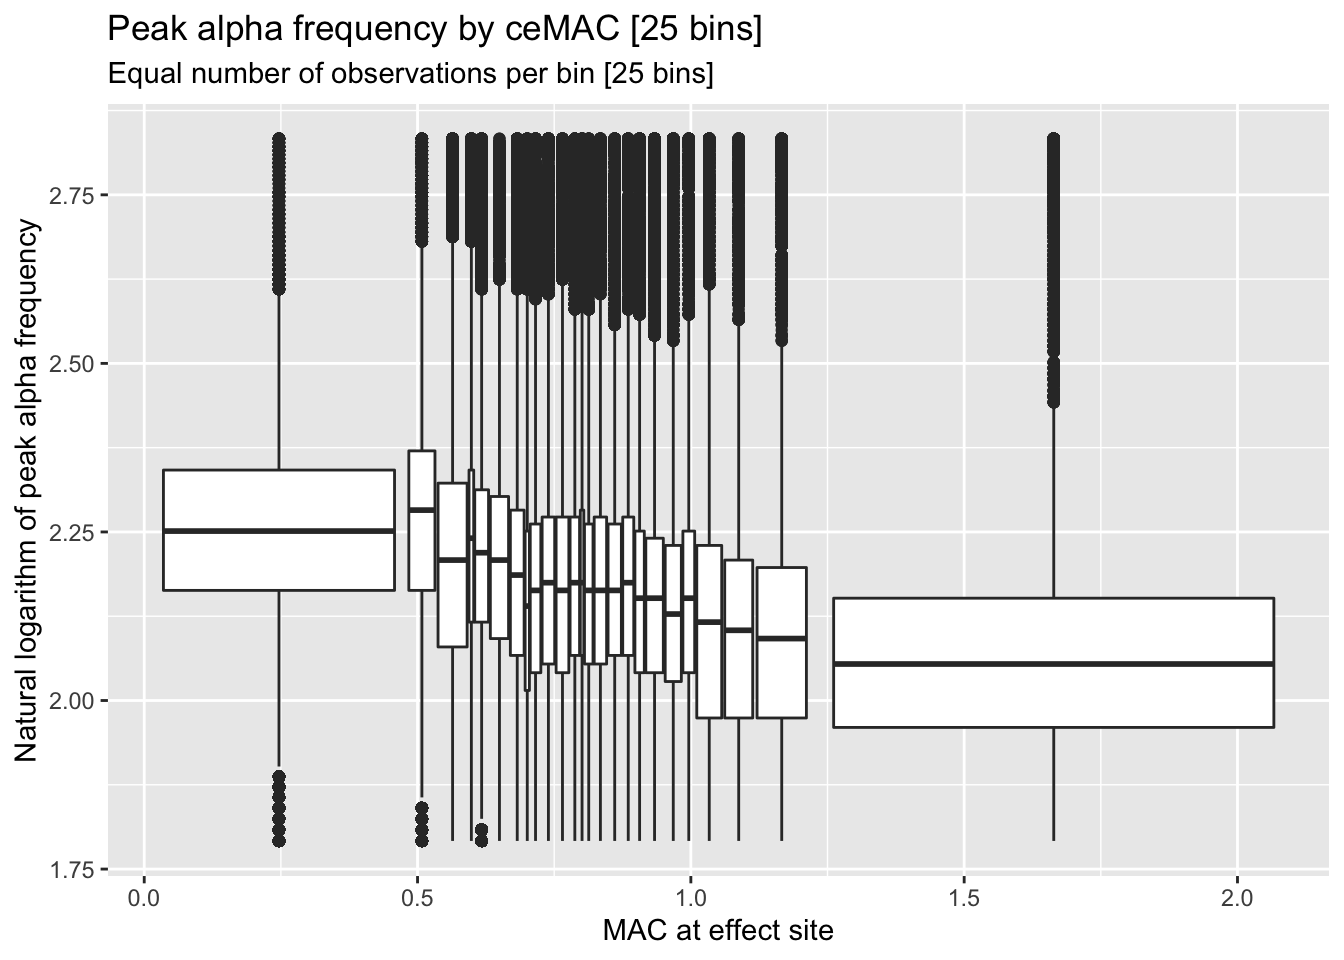
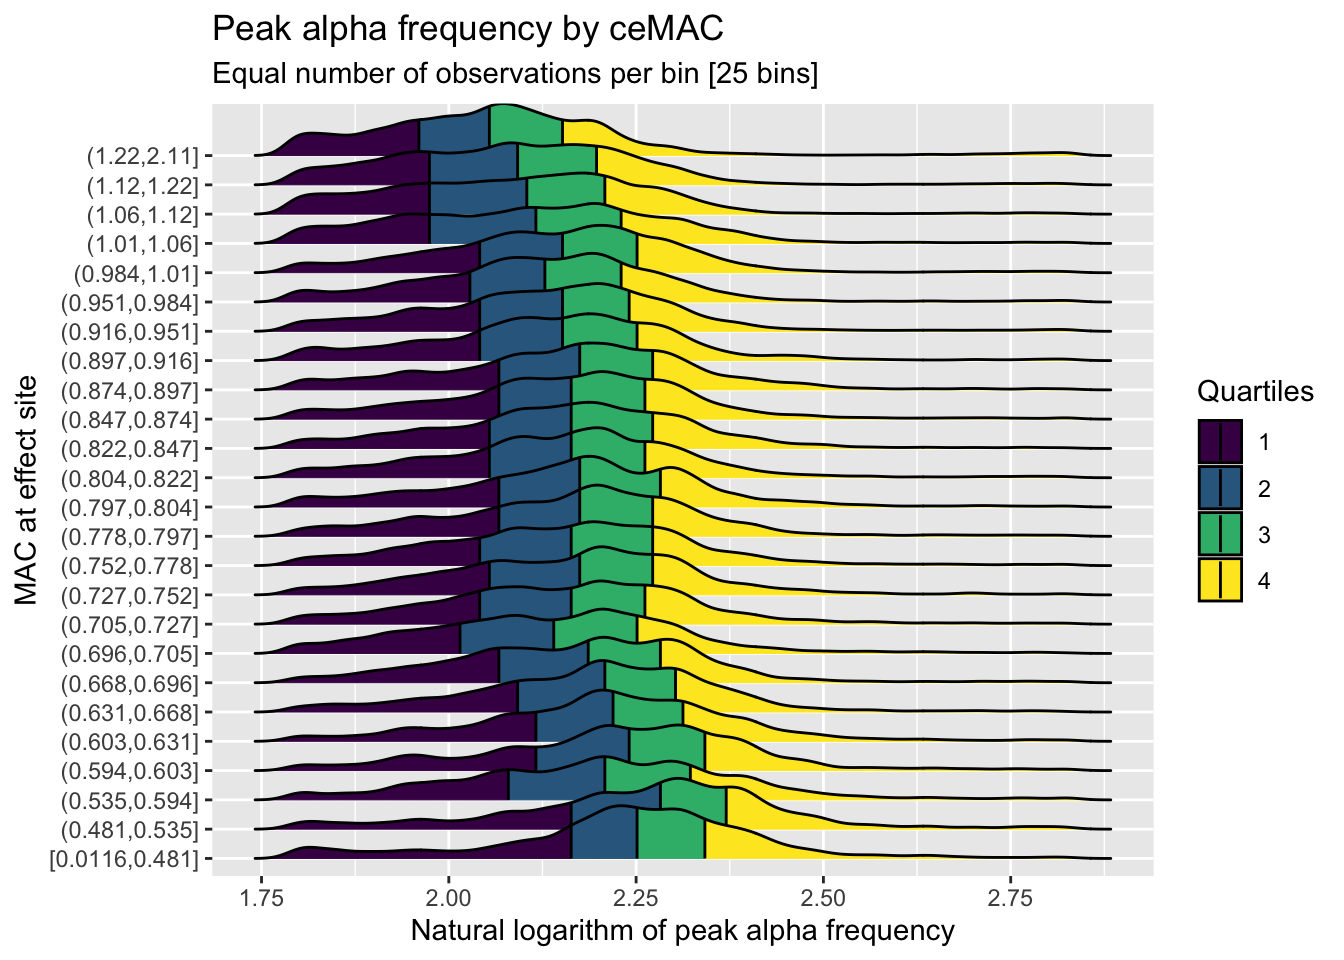
Build site.

diff --git a/docs/exploratory-data-analysis.html b/docs/exploratory-data-analysis.html
@@ -429,7 +429,7 @@ div.tocify {
 <div class="tab-content">
 <div id="summary" class="tab-pane fade in active">
 <p>
-<strong>Last updated:</strong> 2021-02-28
+<strong>Last updated:</strong> 2021-03-03
 </p>
 <p>
 <strong>Checks:</strong> <span class="glyphicon glyphicon-ok text-success" aria-hidden="true"></span> 7 <span class="glyphicon glyphicon-exclamation-sign text-danger" aria-hidden="true"></span> 0
@@ -520,16 +520,16 @@ This reproducible <a href="http://rmarkdown.rstudio.com">R Markdown</a> analysis
 <div class="panel panel-default">
 <div class="panel-heading">
 <p class="panel-title">
-<a data-toggle="collapse" data-parent="#workflowr-checks" href="#strongRepositoryversionstrongahrefhttpsgithubcomPhoenixB1overMACworkflowrtree6b9cfe26234d7cb2c57d5564779bf66d3f4bac86targetblank6b9cfe2a"> <span class="glyphicon glyphicon-ok text-success" aria-hidden="true"></span> <strong>Repository version:</strong> <a href="https://github.com/PhoenixB/1_over_MAC.workflowr/tree/6b9cfe26234d7cb2c57d5564779bf66d3f4bac86" target="_blank">6b9cfe2</a> </a>
+<a data-toggle="collapse" data-parent="#workflowr-checks" href="#strongRepositoryversionstrongahrefhttpsgithubcomPhoenixB1overMACworkflowrtree37027b8a19582c00acf8570be4a4adaf0af4752ctargetblank37027b8a"> <span class="glyphicon glyphicon-ok text-success" aria-hidden="true"></span> <strong>Repository version:</strong> <a href="https://github.com/PhoenixB/1_over_MAC.workflowr/tree/37027b8a19582c00acf8570be4a4adaf0af4752c" target="_blank">37027b8</a> </a>
 </p>
 </div>
[2 lines of base64/hex data omitted]
 <div class="panel-body">
 <p>
 Great! You are using Git for version control. Tracking code development and connecting the code version to the results is critical for reproducibility.
 </p>
 <p>
-The results in this page were generated with repository version <a href="https://github.com/PhoenixB/1_over_MAC.workflowr/tree/6b9cfe26234d7cb2c57d5564779bf66d3f4bac86" target="_blank">6b9cfe2</a>. See the <em>Past versions</em> tab to see a history of the changes made to the R Markdown and HTML files.
+The results in this page were generated with repository version <a href="https://github.com/PhoenixB/1_over_MAC.workflowr/tree/37027b8a19582c00acf8570be4a4adaf0af4752c" target="_blank">37027b8</a>. See the <em>Past versions</em> tab to see a history of the changes made to the R Markdown and HTML files.
 </p>
 <p>
 Note that you need to be careful to ensure that all relevant files for the analysis have been committed to Git prior to generating the results (you can use <code>wflow_publish</code> or <code>wflow_git_commit</code>). workflowr only checks the R Markdown file, but you know if there are other scripts or data files that it depends on. Below is the status of the Git repository when the results were generated:
@@ -1661,6 +1661,40 @@ Message
 Rmd
 </td>
 <td>
+<a href="https://github.com/PhoenixB/1_over_MAC.workflowr/blob/37027b8a19582c00acf8570be4a4adaf0af4752c/analysis/exploratory-data-analysis.Rmd" target="_blank">37027b8</a>
+</td>
+<td>
+PhoenixB
+</td>
+<td>
+2021-03-03
+</td>
+<td>
+Add ridgeline plots instead of binned boxplots for bivariate plots
+</td>
+</tr>
+<tr>
+<td>
+html
+</td>
+<td>
+<a href="https://rawcdn.githack.com/PhoenixB/1_over_MAC.workflowr/90e3eb2b39b1aded8b034598957721f7b848b5a9/docs/exploratory-data-analysis.html" target="_blank">90e3eb2</a>
+</td>
+<td>
+PhoenixB
+</td>
+<td>
+2021-02-28
+</td>
+<td>
+Build site.
+</td>
+</tr>
+<tr>
+<td>
+Rmd
+</td>
+<td>
 <a href="https://github.com/PhoenixB/1_over_MAC.workflowr/blob/6b9cfe26234d7cb2c57d5564779bf66d3f4bac86/analysis/exploratory-data-analysis.Rmd" target="_blank">6b9cfe2</a>
 </td>
 <td>
@@ -2015,9 +2049,10 @@ PhoenixB
 <div id="bivariate-plots" class="section level2">
 <h2>Bivariate plots</h2>
 <pre class="r"><code>oneovermac %&gt;%
-  ggplot(aes(y = log(peak_alpha), x = ce_mac)) +
-  geom_boxplot(aes(group = cut_width(ce_mac, width = 0.1))) +
-  labs(y = &quot;Natural logarithm of peak alpha frequency&quot;, x = &quot;MAC at effect site&quot;, title = &quot;Peak alpha frequency by ceMAC&quot;, subtitle = &quot;Fixed bin width [0.1]&quot;)</code></pre>
+    ggplot(aes(x = log(peak_alpha), y = cut_width(ce_mac, width = 0.1), fill = factor(stat(quantile)))) +
+    stat_density_ridges(geom = &quot;density_ridges_gradient&quot;, calc_ecdf = TRUE, quantile_lines = TRUE, quantiles = 4) +
+    labs(x = &quot;Natural logarithm of peak alpha frequency&quot;, y = &quot;MAC at effect site&quot;, title = &quot;Peak alpha frequency by ceMAC&quot;, subtitle = &quot;Fixed bin width [0.1]&quot;) + scale_fill_viridis_d(name = &quot;Quartiles&quot;)</code></pre>
+<pre><code>Picking joint bandwidth of 0.0176</code></pre>
 <p><img src="figure/exploratory-data-analysis.Rmd/bivariate_plots-1.png" width="672" style="display: block; margin: auto;" /></p>
 <p>
 <button type="button" class="btn btn-default btn-xs btn-workflowr btn-workflowr-fig" data-toggle="collapse" data-target="#fig-bivariate_plots-1">
@@ -2057,9 +2092,10 @@ PhoenixB
 </div>
 </div>
 <pre class="r"><code>oneovermac %&gt;%
-  ggplot(aes(y = log(peak_alpha), x = ce_mac)) +
-  geom_boxplot(aes(group = cut_number(ce_mac, n = 25))) +
-  labs(y = &quot;Natural logarithm of peak alpha frequency&quot;, x = &quot;MAC at effect site&quot;, title = &quot;Peak alpha frequency by ceMAC [25 bins]&quot;, subtitle = &quot;Equal number of observations per bin [25 bins]&quot;)</code></pre>
+    ggplot(aes(x = log(peak_alpha), y = cut_number(ce_mac, n = 25), fill = factor(stat(quantile)))) +
+    stat_density_ridges(geom = &quot;density_ridges_gradient&quot;, calc_ecdf = TRUE, quantile_lines = TRUE, quantiles = 4) +
+    labs(x = &quot;Natural logarithm of peak alpha frequency&quot;, y = &quot;MAC at effect site&quot;, title = &quot;Peak alpha frequency by ceMAC&quot;, subtitle = &quot;Equal number of observations per bin [25 bins]&quot;) + scale_fill_viridis_d(name = &quot;Quartiles&quot;)</code></pre>
+<pre><code>Picking joint bandwidth of 0.0168</code></pre>
 <p><img src="figure/exploratory-data-analysis.Rmd/bivariate_plots-2.png" width="672" style="display: block; margin: auto;" /></p>
 <p>
 <button type="button" class="btn btn-default btn-xs btn-workflowr btn-workflowr-fig" data-toggle="collapse" data-target="#fig-bivariate_plots-2">
@@ -2099,9 +2135,10 @@ PhoenixB
 </div>
 </div>
 <pre class="r"><code>oneovermac %&gt;%
-  ggplot(aes(y = log(peak_alpha), x = ce_mac)) +
-  geom_boxplot(aes(group = cut_interval(ce_mac, n = 25))) +
-  labs(y = &quot;Natural logarithm of peak alpha frequency&quot;, x = &quot;MAC at effect site&quot;, title = &quot;Peak alpha frequency by ceMAC [25 bins]&quot;, subtitle = &quot;Equal range [25 bins]&quot;)</code></pre>
+    ggplot(aes(x = log(peak_alpha), y = cut_interval(ce_mac, n = 25), fill = factor(stat(quantile)))) +
+    stat_density_ridges(geom = &quot;density_ridges_gradient&quot;, calc_ecdf = TRUE, quantile_lines = TRUE, quantiles = 4) +
+    labs(x = &quot;Natural logarithm of peak alpha frequency&quot;, y = &quot;MAC at effect site&quot;, title = &quot;Peak alpha frequency by ceMAC&quot;, subtitle = &quot;Equal range [25 bins]&quot;) + scale_fill_viridis_d(name = &quot;Quartiles&quot;)</code></pre>
+<pre><code>Picking joint bandwidth of 0.0189</code></pre>
 <p><img src="figure/exploratory-data-analysis.Rmd/bivariate_plots-3.png" width="672" style="display: block; margin: auto;" /></p>
 <p>
 <button type="button" class="btn btn-default btn-xs btn-workflowr btn-workflowr-fig" data-toggle="collapse" data-target="#fig-bivariate_plots-3">
@@ -2181,6 +2218,17 @@ Date
 <tbody>
 <tr>
 <td>
+<a href="https://github.com/PhoenixB/1_over_MAC.workflowr/blob/90e3eb2b39b1aded8b034598957721f7b848b5a9/docs/figure/exploratory-data-analysis.Rmd/misc_plots-1.png" target="_blank">90e3eb2</a>
+</td>
+<td>
+PhoenixB
+</td>
+<td>
+2021-02-28
+</td>
+</tr>
+<tr>
+<td>
 <a href="https://github.com/PhoenixB/1_over_MAC.workflowr/blob/5288959f015829d9b8d2a4fc3e0372a7e9b1117f/docs/figure/exploratory-data-analysis.Rmd/misc_plots-1.png" target="_blank">5288959</a>
 </td>
 <td>
@@ -2210,6 +2258,43 @@ PhoenixB
   geom_point() +
   labs(x = &quot;Patient&quot;, y = &quot;Lag 1 Autocorrelation&quot;, title = &quot;Lag 1 Autocorrelation by variable&quot;)</code></pre>
 <p><img src="figure/exploratory-data-analysis.Rmd/autocorrelation-1.png" width="672" style="display: block; margin: auto;" /></p>
+<p>
+<button type="button" class="btn btn-default btn-xs btn-workflowr btn-workflowr-fig" data-toggle="collapse" data-target="#fig-autocorrelation-1">
+Past versions of autocorrelation-1.png
+</button>
+</p>
+<div id="fig-autocorrelation-1" class="collapse">
+<div class="table-responsive">
+<table class="table table-condensed table-hover">
+<thead>
+<tr>
+<th>
+Version
+</th>
+<th>
+Author
+</th>
+<th>
+Date
+</th>
+</tr>
+</thead>
+<tbody>
+<tr>
+<td>
+<a href="https://github.com/PhoenixB/1_over_MAC.workflowr/blob/90e3eb2b39b1aded8b034598957721f7b848b5a9/docs/figure/exploratory-data-analysis.Rmd/autocorrelation-1.png" target="_blank">90e3eb2</a>
+</td>
+<td>
+PhoenixB
+</td>
+<td>
+2021-02-28
+</td>
+</tr>
+</tbody>
+</table>
+</div>
+</div>
 <pre class="r"><code>oneovermac %&gt;%
   select(-time) %&gt;%
   nest() %&gt;%
@@ -2223,6 +2308,43 @@ PhoenixB
   geom_point() +
   labs(x = &quot;Patient&quot;, y = &quot;Lag 2 Autocorrelation&quot;, title = &quot;Lag 2 Autocorrelation by variable&quot;)</code></pre>
 <p><img src="figure/exploratory-data-analysis.Rmd/autocorrelation-2.png" width="672" style="display: block; margin: auto;" /></p>
+<p>
+<button type="button" class="btn btn-default btn-xs btn-workflowr btn-workflowr-fig" data-toggle="collapse" data-target="#fig-autocorrelation-2">
+Past versions of autocorrelation-2.png
+</button>
+</p>
+<div id="fig-autocorrelation-2" class="collapse">
+<div class="table-responsive">
+<table class="table table-condensed table-hover">
+<thead>
+<tr>
+<th>
+Version
+</th>
+<th>
+Author
+</th>
+<th>
+Date
+</th>
+</tr>
+</thead>
+<tbody>
+<tr>
+<td>
+<a href="https://github.com/PhoenixB/1_over_MAC.workflowr/blob/90e3eb2b39b1aded8b034598957721f7b848b5a9/docs/figure/exploratory-data-analysis.Rmd/autocorrelation-2.png" target="_blank">90e3eb2</a>
+</td>
+<td>
+PhoenixB
+</td>
+<td>
+2021-02-28
+</td>
+</tr>
+</tbody>
+</table>
+</div>
+</div>
 <br>
 <p>
 <button type="button" class="btn btn-default btn-workflowr btn-workflowr-sessioninfo" data-toggle="collapse" data-target="#workflowr-sessioninfo" style="display: block;">
@@ -2246,28 +2368,28 @@ attached base packages:
 [1] stats     graphics  grDevices utils     datasets  methods   base     
 
 other attached packages:
- [1] glue_1.4.2       fs_1.5.0         conflicted_1.0.4 forcats_0.5.1   
- [5] stringr_1.4.0    dplyr_1.0.4      purrr_0.3.4      readr_1.4.0     
- [9] tidyr_1.1.2      tibble_3.0.6     ggplot2_3.3.3    tidyverse_1.3.0 
-[13] pacman_0.5.1    
+ [1] ggridges_0.5.3   glue_1.4.2       fs_1.5.0         conflicted_1.0.4
+ [5] forcats_0.5.1    stringr_1.4.0    dplyr_1.0.4      purrr_0.3.4     
+ [9] readr_1.4.0      tidyr_1.1.2      tibble_3.0.6     ggplot2_3.3.3   
+[13] tidyverse_1.3.0  pacman_0.5.1    
 
 loaded via a namespace (and not attached):
- [1] Rcpp_1.0.6        lubridate_1.7.9.2 assertthat_0.2.1  rprojroot_2.0.2  
- [5] digest_0.6.27     utf8_1.1.4        R6_2.5.0          cellranger_1.1.0 
- [9] backports_1.2.1   reprex_1.0.0      evaluate_0.14     highr_0.8        
-[13] httr_1.4.2        pillar_1.4.7      rlang_0.4.10      readxl_1.3.1     
-[17] rstudioapi_0.13   whisker_0.4       rmarkdown_2.6     labeling_0.4.2   
-[21] munsell_0.5.0     broom_0.7.4       compiler_4.0.3    httpuv_1.5.5     
-[25] modelr_0.1.8      xfun_0.21         pkgconfig_2.0.3   htmltools_0.5.1.1
-[29] tidyselect_1.1.0  workflowr_1.6.2   fansi_0.4.2       crayon_1.4.1     
-[33] dbplyr_2.1.0      withr_2.4.1       later_1.1.0.1     grid_4.0.3       
-[37] jsonlite_1.7.2    gtable_0.3.0      lifecycle_0.2.0   DBI_1.1.1        
-[41] git2r_0.28.0      magrittr_2.0.1    scales_1.1.1      cli_2.3.0        
-[45] stringi_1.5.3     cachem_1.0.4      farver_2.0.3      promises_1.2.0.1 
-[49] xml2_1.3.2        ellipsis_0.3.1    generics_0.1.0    vctrs_0.3.6      
-[53] tools_4.0.3       hms_1.0.0         fastmap_1.1.0     yaml_2.2.1       
-[57] colorspace_2.0-0  rvest_0.3.6       memoise_2.0.0     knitr_1.31       
-[61] haven_2.3.1      </code></pre>
+ [1] Rcpp_1.0.6        lubridate_1.7.9.2 utf8_1.1.4        assertthat_0.2.1 
+ [5] rprojroot_2.0.2   digest_0.6.27     R6_2.5.0          cellranger_1.1.0 
+ [9] plyr_1.8.6        backports_1.2.1   reprex_1.0.0      evaluate_0.14    
+[13] highr_0.8         httr_1.4.2        pillar_1.4.7      rlang_0.4.10     
+[17] readxl_1.3.1      rstudioapi_0.13   whisker_0.4       rmarkdown_2.6    
+[21] labeling_0.4.2    munsell_0.5.0     broom_0.7.4       compiler_4.0.3   
+[25] httpuv_1.5.5      modelr_0.1.8      xfun_0.21         pkgconfig_2.0.3  
+[29] htmltools_0.5.1.1 tidyselect_1.1.0  workflowr_1.6.2   viridisLite_0.3.0
+[33] fansi_0.4.2       crayon_1.4.1      dbplyr_2.1.0      withr_2.4.1      
+[37] later_1.1.0.1     grid_4.0.3        jsonlite_1.7.2    gtable_0.3.0     
+[41] lifecycle_0.2.0   DBI_1.1.1         git2r_0.28.0      magrittr_2.0.1   
+[45] scales_1.1.1      cli_2.3.0         stringi_1.5.3     cachem_1.0.4     
+[49] farver_2.0.3      promises_1.2.0.1  xml2_1.3.2        ellipsis_0.3.1   
+[53] generics_0.1.0    vctrs_0.3.6       tools_4.0.3       hms_1.0.0        
+[57] fastmap_1.1.0     yaml_2.2.1        colorspace_2.0-0  rvest_0.3.6      
+[61] memoise_2.0.0     knitr_1.31        haven_2.3.1      </code></pre>
 </div>
 </div>
 
